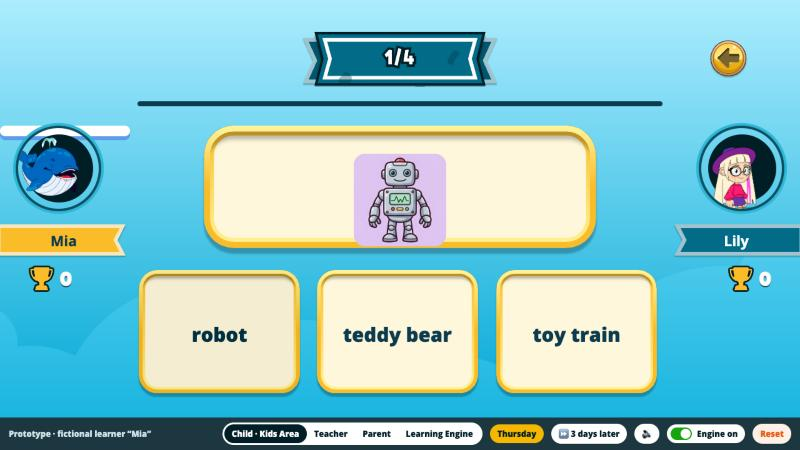
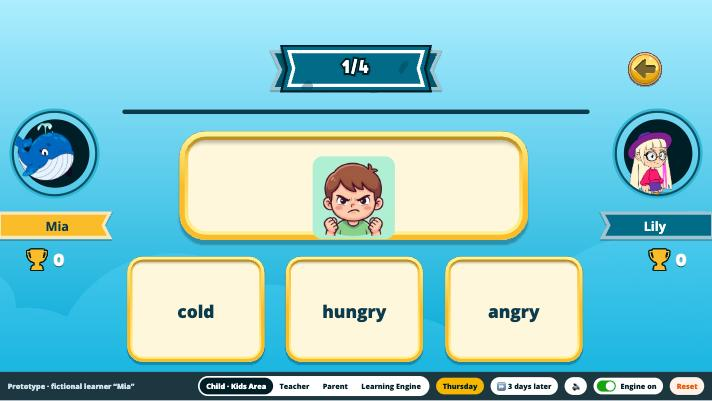
Align game layouts with the original Kids Area games

diff --git a/app.js b/app.js
@@ -530,7 +530,7 @@
     } else { attempt(c, false, { chosen: topic }); ses.glow = { id: topic, ok: false }; say(`Oops! ${W(c).word}!`); save(); render(); setTimeout(() => { if (S.session === ses) { ses.glow = null; render(); } }, 700); }
   }
   // Bubbles — pop letter bubbles to spell the word for the picture
-  const BUB_SLOTS = [[187, 245], [247, 245], [307, 245], [367, 245], [427, 245], [217, 196], [277, 196], [337, 196], [397, 196], [247, 147], [307, 147], [367, 147]];
+  const BUB_SLOTS = [[187, 252], [247, 252], [307, 252], [367, 252], [427, 252], [217, 197], [277, 197], [337, 197], [397, 197], [247, 142], [307, 142], [367, 142]];
   function onBubble(k) {
     const it = cur(); if (it.solved) return;
     const b = it.bubbles[k], need = letters(it.id)[it.pos];
@@ -578,7 +578,7 @@
   }
   const ansHTML = (it) => Array.from({ length: 5 }, (_, k) => { const w = RACE ? RACE.wrong[k] : null; return w ? `<b class="bad">${w}</b>` : it.solved && k === (RACE ? RACE.wrong.length : 0) ? `<b class="ok">${letters(it.id)[it.miss]}</b>` : "<b>-</b>"; }).join("");
   // Snake — as in Kids Area: the snake glides after the pointer / finger; eat the egg with the first letter (30 s per word)
-  const SB = { w: 520, h: 208 }, SPEED = 82, TURN = 5.2, GAP = 9.5, HEAD = 74, WORD_SEC = 30;
+  const SB = { w: 593, h: 284 }, SPEED = 82, TURN = 5.2, GAP = 9.5, HEAD = 74, WORD_SEC = 30;
   let SN = null, snRAF = null;
   function snReset() {
     SN = { x: 110, y: 104, a: 0, tx: null, ty: null, trail: [], n: 7, last: 0, eggs: [], segEls: [], eggEls: [], eggKey: "", root: null };
@@ -587,7 +587,7 @@
   function snEggs(it) {
     const need = letters(it.id)[0]; it.need = need;
     const spots = []; let guard = 0;
-    while (spots.length < 3 && guard++ < 500) { const q = { x: 40 + Math.random() * (SB.w - 80), y: 30 + Math.random() * (SB.h - 60) }; if (Math.hypot(q.x - SN.x, q.y - SN.y) > 90 && spots.every((o) => Math.hypot(q.x - o.x, q.y - o.y) > 80)) spots.push(q); }
+    while (spots.length < 3 && guard++ < 500) { const q = { x: 70 + Math.random() * (SB.w - 120), y: 56 + Math.random() * (SB.h - 96) }; if (Math.hypot(q.x - SN.x, q.y - SN.y) > 90 && spots.every((o) => Math.hypot(q.x - o.x, q.y - o.y) > 80)) spots.push(q); }
     SN.eggs = shuffle([need, ...randLetters(2, [need])]).map((ch, k) => Object.assign({ ch, c: k % 3 }, spots[k] || { x: 300 + k * 60, y: 60 + k * 40 }));
   }
   function snAim(ev) {
@@ -694,10 +694,10 @@
         ${ico(GA.back, "qexit", `data-act="quit"`, "Leave the game")}
         ${widget("me", ses)}${widget("enemy", ses)}
         <div class="qz-q"><img class="t" src="${GA.qTile}" alt="">${pic(it.id)}</div>
-        ${it.opts.map((o, k) => `<button class="qz-o" style="left:${[106, 243, 381][k]}px" data-quiz="${esc(o)}" ${it.pick ? "disabled" : ""}><img class="t" src="${tile(o)}" alt=""><span>${esc(W(o).word)}</span></button>`).join("")}`;
+        ${it.opts.map((o, k) => `<button class="qz-o" style="left:${[105, 242, 380][k]}px" data-quiz="${esc(o)}" ${it.pick ? "disabled" : ""}><img class="t" src="${tile(o)}" alt=""><span>${esc(W(o).word)}</span></button>`).join("")}`;
     }
     if (g === "memo") {
-      const cols = 4, rows = Math.ceil(ses.cards.length / cols), tw = 64, th = 50, gap = 6, x0 = (616 - (cols * tw + (cols - 1) * gap)) / 2, y0 = 92 + (4 - rows) * 22;
+      const cols = 4, rows = Math.ceil(ses.cards.length / cols), tw = 64, th = 50, gap = 6, x0 = (616 - (cols * tw + (cols - 1) * gap)) / 2, y0 = 120 + (3 - rows) * 28;
       return `<div class="gscene sky"></div>
         <div class="mm-rib"><img src="${GA.memoTitle}" alt="">${prim("MEMO MIX", 14)}</div>
         ${quitBtn()}${widget("me", ses, ses.turn === "me" && !ses.preview)}${widget("enemy", ses, ses.turn === "bot")}
@@ -707,13 +707,13 @@
     }
     if (g === "boxes") {
       const deck = ses.deck.map((id, k) => { const isTop = k === ses.deck.length - 1; return `<div class="bx-card ${isTop ? "top" : ""}" style="left:${12 + k * 40}px"><img class="t" src="${GA.boxCard}" alt="">${pic(id)}${isTop ? listenBtn(id, "card-lis") : ""}</div>`; }).join("");
-      const slots = ses.deck.map((_, k) => `<div class="bx-slot" style="left:${364 + (k % 5) * 49}px;top:${209 + Math.floor(k / 5) * 51}px"><img src="${GA.boxSlot}" alt=""></div>`).join("");
+      const slots = ses.deck.map((_, k) => `<div class="bx-slot" style="left:${362 + (k % 5) * 49}px;top:${221 + Math.floor(k / 5) * 52}px"><img src="${GA.boxSlot}" alt=""></div>`).join("");
       const name = (u) => UNITS.find((x) => x.id === u).name.toLowerCase();
       return `<div class="gscene sky"></div>
         ${helpBtn()}${timer(ses)}${quitBtn()}${widget("me", ses)}${widget("enemy", ses)}
-        ${ses.chests.map((u, k) => `<div class="bx-lab" style="left:${[174, 320][k]}px">${prim(name(u), 19)}</div>
-          <button class="bx-chest ${ses.glow && ses.glow.id === u ? (ses.glow.ok ? "ok" : "bad") : ""}" style="left:${[174, 320][k]}px" data-box="${u}" aria-label="${name(u)} chest"><img src="${GA.box}" alt=""></button>
-          <button class="gi lis chest-lis" style="left:${[174, 320][k] + 92}px" data-sayt="${esc(name(u))}" aria-label="Listen"><img src="${GA.listen}" alt=""></button>`).join("")}
+        ${ses.chests.map((u, k) => `<div class="bx-lab" style="left:${[176, 322][k]}px">${prim(name(u), 19)}</div>
+          <button class="bx-chest ${ses.glow && ses.glow.id === u ? (ses.glow.ok ? "ok" : "bad") : ""}" style="left:${[176, 322][k]}px" data-box="${u}" aria-label="${name(u)} chest"><img src="${GA.box}" alt=""></button>
+          <button class="gi lis chest-lis" style="left:${[176, 322][k] + 100}px" data-sayt="${esc(name(u))}" aria-label="Listen"><img src="${GA.listen}" alt=""></button>`).join("")}
         <div class="bx-deck">${deck}</div>${slots}
         ${ses.over ? `<div class="g-result"><img src="${ses.win ? GA.winG : GA.winR}" alt="">${prim(ses.win ? "YOU WIN!" : "GOOD TRY!", 16)}</div>` : ""}`;
     }

diff --git a/ka.css b/ka.css
@@ -649,3 +649,56 @@ html.ka, html.ka body { margin: 0; height: 100%; overflow: hidden; }
 .sn-field { z-index: 1; }
 .sn-field .egg { width: 40px; height: 40px; font-size: 16px; }
 .sn-board { background-size: 420px auto; }
+
+/* game layouts aligned with the original games (stage = 616x320) */
+.ka-stage .gscene.bub, .ka-stage .gscene.sky { width: auto; height: auto; background: none; border: 0; border-radius: 0; box-shadow: none; }
+.ka-stage .gi.help { left: 15px; top: 38px; width: 33px; height: 33px; }
+.ka-stage .gi.flag { right: 38px; top: 34px; width: 40px; height: 42px; }
+.gclock { left: 55px; top: 33px; width: 46px; height: 46px; font-size: 13px; }
+.pw { top: 95px; }
+.pw .av { width: 74px; height: 74px; }
+.pw.me .av { left: 10px; } .pw.enemy .av { right: 10px; }
+.pw .lbl { top: 87px; width: 99px; }
+.pw .tr { top: 119px; }
+.ka-root.bg-g-boxes .pw .tr { top: -8px; }
+.ka-root.bg-g-boxes .pw.me .tr { left: 84px; } .ka-root.bg-g-boxes .pw.enemy .tr { right: 84px; }
+.ka-root.bg-g-boxes .pw .tr img { width: 28px; }
+.ka-root.bg-g-boxes .pw .tr { font-size: 18px; }
+/* quiz */
+.qz-rib { top: 38px; } .qz-line { top: 94px; } .qz-q { top: 113px; left: 104px; }
+.ka-stage .qz-o { top: 221px; width: 129px; height: 95px; }
+.ka-stage .gi.qexit { right: 42px; top: 44px; width: 32px; height: 32px; }
+/* memo */
+.mm-rib { top: 38px; } .mm-hint { top: 84px; }
+/* box battle */
+.bx-lab { top: 88px; width: 118px; }
+.ka-stage .bx-chest { top: 122px; width: 118px; height: 73px; }
+.ka-stage .gi.chest-lis { top: 164px; }
+.bx-deck { top: 221px; }
+.bx-slot { width: 46px; height: 46px; }
+/* bubbles */
+.ka-root.bg-g-bubbles .pw { top: 111px; }
+.ka-root.bg-g-bubbles .pw .av { width: 60px; height: 60px; }
+.ka-root.bg-g-bubbles .pw.me .av { left: 16px; }
+.ka-root.bg-g-bubbles .pw .lbl { top: 68px; }
+.ka-root.bg-g-bubbles .pw .tr { top: -11px; }
+.ka-root.bg-g-bubbles .pw.me .tr { left: 66px; }
+.ka-root.bg-g-bubbles .gclock { left: 65px; }
+.ka-stage .bb-hint { left: 123px; top: 43px; }
+.bb-mis { top: 16px; width: 150px; height: 91px; }
+.bb-en { left: 445px; top: 16px; width: 157px; height: 94px; }
+.ka-root.bg-g-bubbles .gi.flag { top: 124px; right: 10px; }
+.bb-bar { left: 73px; top: 284px; width: 469px; height: 34px; }
+/* racing: controls grouped in one column at the right edge */
+.ka-root.bg-g-racing .gi.help { left: 10px; top: 14px; }
+.rc-arrows { left: auto; right: 15px; top: 182px; flex-direction: column; gap: 2px; }
+.ka-stage .gi.rc-flag { top: auto; bottom: 28px; right: 14px; width: 34px; height: 36px; }
+/* snake: full-bleed field with the word plate and timer on its border, as in the original */
+.sn-board { left: 23px; top: 36px; width: 593px; height: 284px; border: 0; border-top: 2px solid #fff; border-left: 2px solid #fff; border-radius: 0; box-sizing: border-box; }
+.gclock.sn { left: 11px; top: 22px; width: 45px; height: 45px; font-size: 13px; z-index: 3; }
+.sn-word { left: 186px; top: 14px; width: 225px; height: 44px; z-index: 3; pointer-events: none; }
+.ka-stage .gi.sn-lis { pointer-events: auto; }
+.sn-av { left: 12px; top: 108px; width: 46px; z-index: 3; pointer-events: none; }
+.ka-stage .gi.sn-flag { top: 14px; right: 16px; width: 40px; height: 42px; }
+/* the player widget also matches the dashboard's generic .me pill: reset it */
+.ka-stage .pw.me { display: block; background: none; box-shadow: none; padding: 0; border-radius: 0; font-weight: inherit; }

diff --git a/index.html b/index.html
@@ -7,8 +7,8 @@
 <link rel="preconnect" href="https://fonts.googleapis.com">
 <link rel="preconnect" href="https://fonts.gstatic.com" crossorigin>
 <link href="https://fonts.googleapis.com/css2?family=Lilita+One&family=Open+Sans:wght@400;600;700;800&display=swap" rel="stylesheet">
-<link rel="stylesheet" href="styles.css?v=38">
-<link rel="stylesheet" href="ka.css?v=38">
+<link rel="stylesheet" href="styles.css?v=40">
+<link rel="stylesheet" href="ka.css?v=40">
 </head>
 <body>
   <div class="ka-root bg-dash" id="kaRoot">
@@ -19,6 +19,6 @@
   </div>
   <div class="adult-page" id="adultPage" hidden><div class="screen adult" id="adultScreen"></div></div>
   <div class="demo-bar floating" id="demoBar"></div>
-  <script src="app.js?v=38"></script>
+  <script src="app.js?v=40"></script>
 </body>
 </html>

diff --git a/deck/index.html b/deck/index.html
@@ -488,7 +488,7 @@ th{font-weight:700}
 <p style="font-size:24px;line-height:1.25"><b>5</b> “3 days later”: old cards got dusty and ask for a refresh.</p>
 </div>
 <div style="display:flex;flex-direction:column;gap:8px">
-<img src="07-quiz.jpg" alt="Quiz Corner asking which word matches the robot" style="width:417px;height:235px;object-fit:cover;border-radius:12px">
+<img src="07-quiz.jpg" alt="Quiz Corner asking which word matches the picture" style="width:417px;height:235px;object-fit:cover;border-radius:12px">
 <p style="font-size:24px;line-height:1.25"><b>6</b> Quiz Corner checks memory: first try, no hint.</p>
 </div>
 <div style="display:flex;flex-direction:column;gap:8px">
